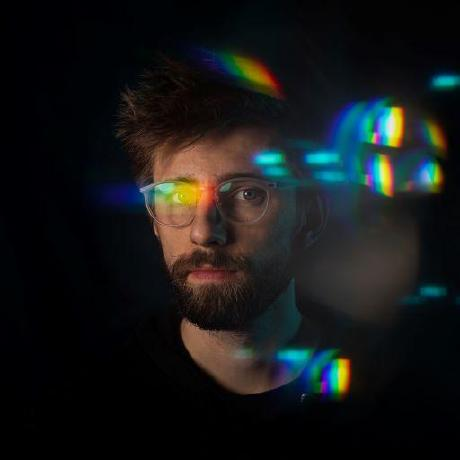
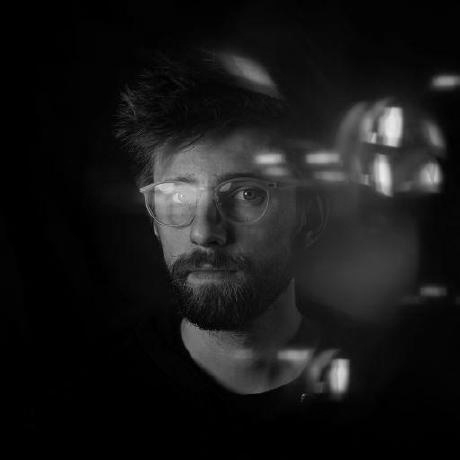
feat(splash): add indeterminate loader animation and update monochrome team photos
- Add continuous indeterminate sweeping line animation to SplashComponent when progress is 0 or unmeasured
- Provide smooth dual-mode transition to percentage progress bar when progress > 0
- Add optional indeterminate Input property on SplashComponent
- Add prefers-reduced-motion fallback for the indeterminate loader
- Update team photos in assets/team/ to square, monochrome 1-channel grayscale JPEGs
- Update about-modal person photo aspect-ratio to 1/1 with grayscale filter

diff --git a/ui/splash/splash.component.scss b/ui/splash/splash.component.scss
@@ -57,6 +57,12 @@
     border-radius: inherit;
     background: linear-gradient(90deg, color("accent"), color("phase-super"));
     transition: width 0.45s cubic-bezier(0.22, 1, 0.36, 1);
+
+    &--indeterminate {
+      width: 35%;
+      min-width: 35%;
+      animation: kmd-splash-indeterminate 1.4s cubic-bezier(0.4, 0, 0.2, 1) infinite;
+    }
   }
 
   &__status {
@@ -83,6 +89,21 @@
   }
 }
 
+@keyframes kmd-splash-indeterminate {
+  0% {
+    left: -40%;
+    width: 35%;
+  }
+  50% {
+    left: 25%;
+    width: 50%;
+  }
+  100% {
+    left: 100%;
+    width: 35%;
+  }
+}
+
 @media (prefers-reduced-motion: reduce) {
   .splash {
     transition-duration: 0.01ms;
@@ -95,5 +116,12 @@
 
   .splash__fill {
     transition-duration: 0.01ms;
+  }
+
+  .splash__fill--indeterminate {
+    animation: none;
+    left: 0;
+    width: 100%;
+    opacity: 0.5;
   }
 }

diff --git a/ui/splash/splash.component.ts b/ui/splash/splash.component.ts
@@ -27,12 +27,18 @@ export class SplashComponent implements AfterViewInit, OnDestroy {
   @Input() visible?: boolean;
   @Input() fading?: boolean;
   @Input() progress?: number;
+  @Input() indeterminate?: boolean;
   @Input() status?: string;
   @Input() error?: boolean;
   @Output() revealed = new EventEmitter<void>();
 
   private emitted = false;
   private fallbackTimer: ReturnType<typeof setTimeout> | null = null;
+
+  get isIndeterminate(): boolean {
+    if (this.indeterminate !== undefined) return this.indeterminate;
+    return this.currentProgress <= 0;
+  }
 
   get isVisible(): boolean {
     return this.visible !== undefined ? this.visible : (this.splashService?.visible() ?? true);

diff --git a/ui/splash/splash.component.html b/ui/splash/splash.component.html
@@ -16,7 +16,10 @@
       </div>
 
       <div class="splash__track" aria-hidden="true">
-        <span class="splash__fill" [style.width.%]="currentProgress"></span>
+        <span
+          class="splash__fill"
+          [class.splash__fill--indeterminate]="isIndeterminate"
+          [style.width.%]="isIndeterminate ? null : currentProgress"></span>
       </div>
 
       <p class="splash__status">{{ currentStatus }}</p>

diff --git a/ui/about/about-modal.component.scss b/ui/about/about-modal.component.scss
@@ -79,7 +79,7 @@ $fs-person: clamp(1.125rem, 2.2vw, 1.5rem);
 
 .person__photo {
   grid-area: photo;
-  aspect-ratio: 4 / 5;
+  aspect-ratio: 1 / 1;
   max-width: 100%;
   border-radius: radius("card");
   border: 1px solid color("line");
@@ -97,6 +97,7 @@ $fs-person: clamp(1.125rem, 2.2vw, 1.5rem);
     height: 100%;
     object-fit: cover;
     display: block;
+    filter: grayscale(100%);
   }
 }
 
